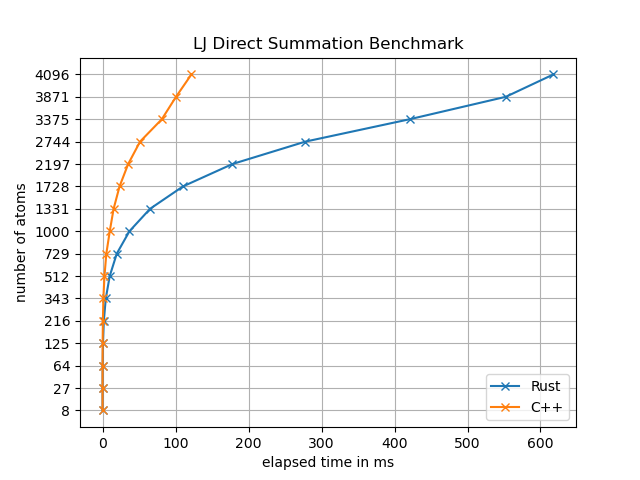
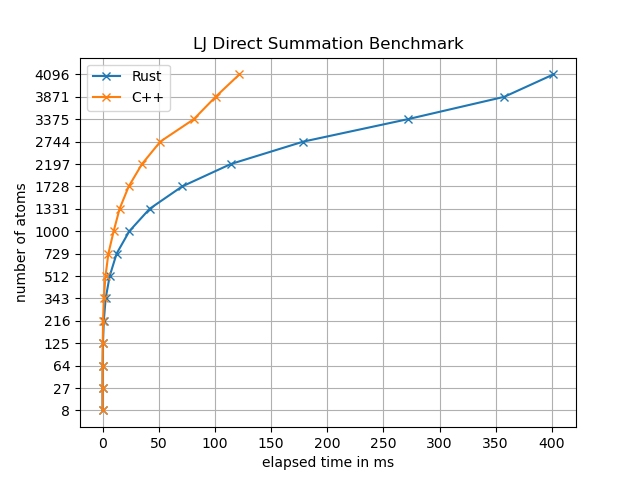
optimize lj_direct_summation code -> more speed

diff --git a/src/md_implementation/lj_direct_summation.rs b/src/md_implementation/lj_direct_summation.rs
@@ -1,6 +1,5 @@
 use crate::md_implementation::atoms::Atoms;
-use ndarray::Array1;
-use std::ops::{AddAssign, SubAssign};
+use ndarray::{Array1,Array2};
 
 impl Atoms {
     pub fn lj_direct_summation(&mut self, epsilon_opt: Option<f64>, sigma_opt: Option<f64>) -> f64 {
@@ -10,21 +9,28 @@ impl Atoms {
 
         for i in 0..self.positions.shape()[1] {
             for j in i + 1..self.positions.shape()[1] {
-                let mut distance_vector: Array1<f64> = self.positions.column(i).to_owned();
-                distance_vector.sub_assign(&self.positions.column(j));
-                let distance: f64 = (&distance_vector * &distance_vector).sum().sqrt();
+                let distance_vector = distance_vector(&self.positions, i, j);
+                let distance: f64 = distance_vector.dot(&distance_vector).sqrt();
+                
                 let (pair_energy, pair_force) = lj_pair(distance, epsilon, sigma);
                 potential_energy += pair_energy;
-                let force_vector: Array1<f64> = pair_force * &distance_vector / distance;
-                self.forces.column_mut(i).add_assign(&force_vector);
-                self.forces.column_mut(j).sub_assign(&force_vector);
+
+                //add force vector to ith and subtract it from jth force column
+                self.forces.column_mut(i).scaled_add(pair_force / distance, &distance_vector);
+                self.forces.column_mut(j).scaled_add(-pair_force / distance, &distance_vector);
             }
         }
         return potential_energy;
     }
 }
+
 #[inline]
-pub fn lj_pair(distance: f64, epsilon: f64, sigma: f64) -> (f64, f64) {
+fn distance_vector(positions: &Array2<f64>, i: usize, j: usize) -> Array1<f64> {
+    return &positions.column(i) - &positions.column(j);
+}
+
+#[inline]
+fn lj_pair(distance: f64, epsilon: f64, sigma: f64) -> (f64, f64) {
     let sd = &sigma / &distance;
     let sd2 = &sd * &sd;
     let sd6 = &sd2 * &sd2 * &sd2;
